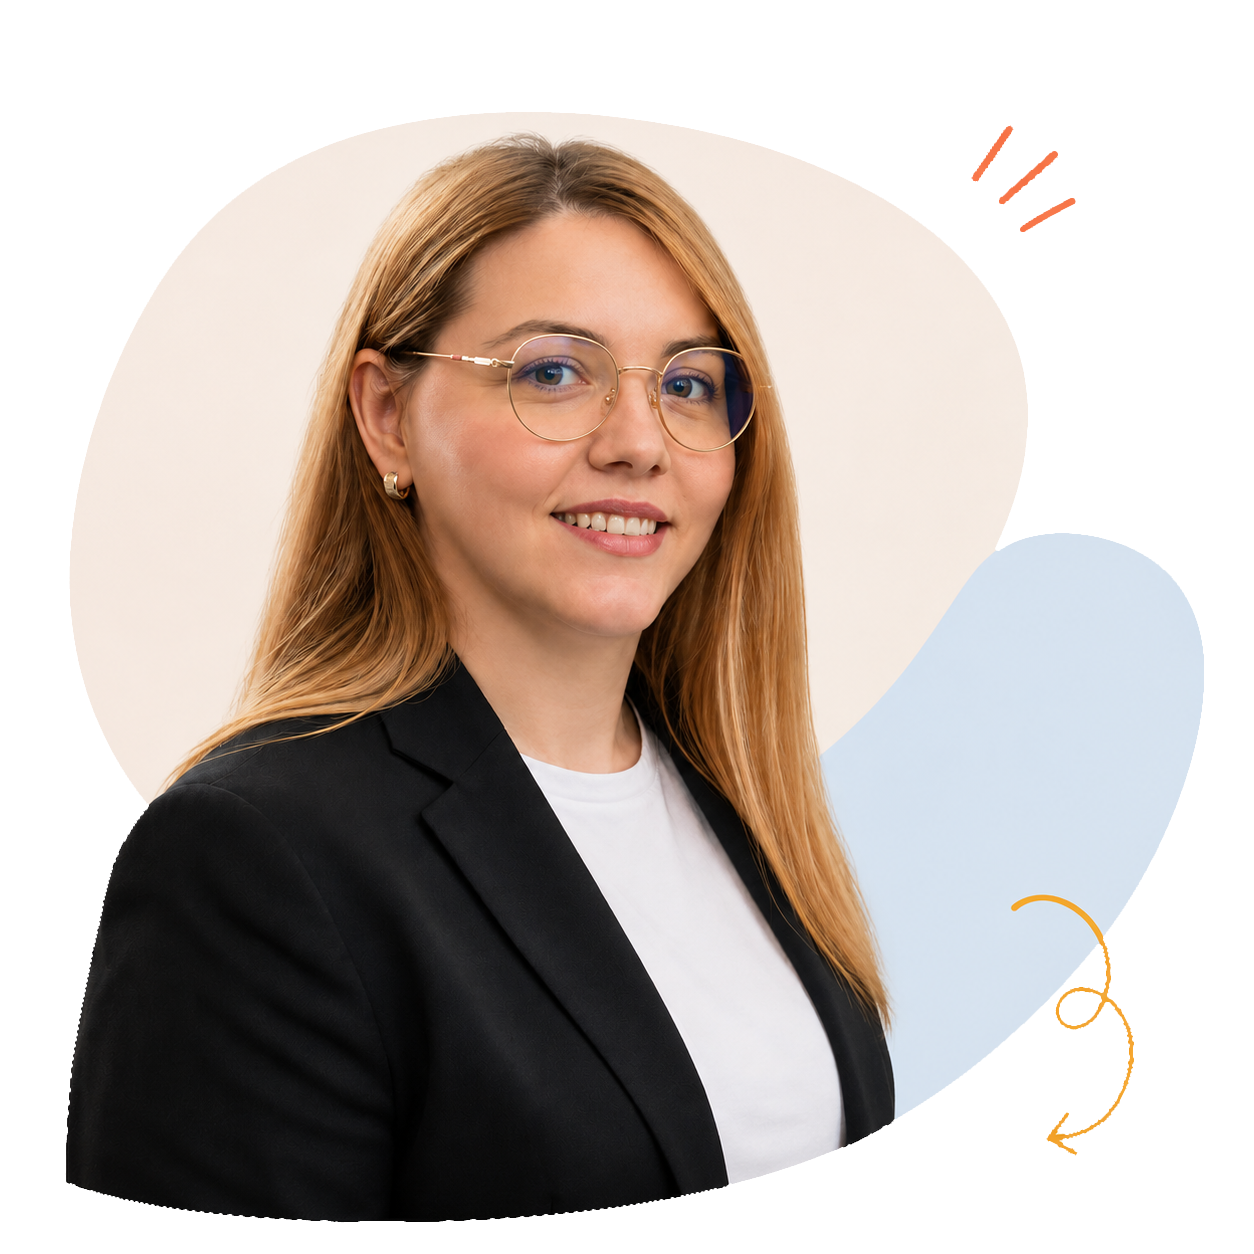
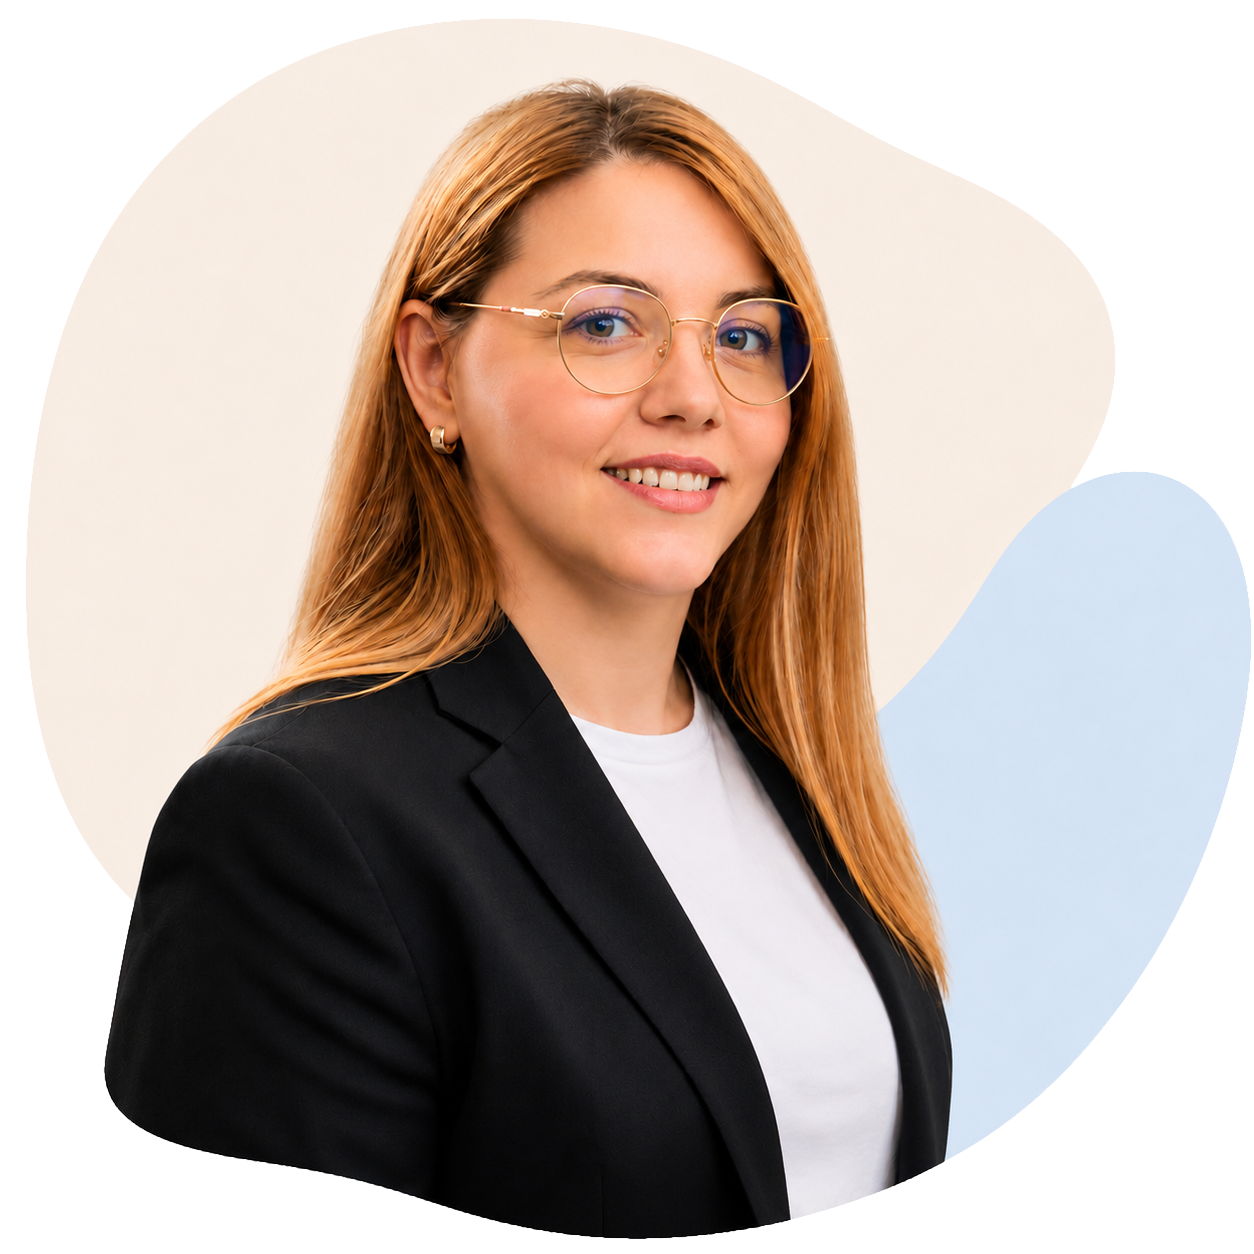
Update hero image and mobile form focus

diff --git a/script.js b/script.js
@@ -43,6 +43,29 @@ const scrollToElement = (target, focusTarget = null) => {
   }
 };
 
+const scrollToKeyboardSafeField = (field) => {
+  const viewport = window.visualViewport;
+  const viewportHeight = viewport?.height || window.innerHeight;
+  const viewportOffset = viewport?.offsetTop || 0;
+  const fieldTop = field.getBoundingClientRect().top + window.scrollY;
+  const targetTop = fieldTop - viewportOffset - viewportHeight * 0.46;
+
+  window.scrollTo({ top: Math.max(0, targetTop), behavior: "smooth" });
+};
+
+const focusFieldForKeyboard = (field) => {
+  if (!field) return;
+
+  scrollToKeyboardSafeField(field);
+  window.setTimeout(() => {
+    field.focus({ preventScroll: true });
+  }, 260);
+
+  window.setTimeout(() => {
+    scrollToKeyboardSafeField(field);
+  }, 620);
+};
+
 internalSectionLinks.forEach((link) => {
   link.addEventListener("click", (event) => {
     const hash = link.getAttribute("href");
@@ -69,7 +92,12 @@ const focusContactForm = (topic = "") => {
     topicSelect.dispatchEvent(new Event("change", { bubbles: true }));
   }
 
-  scrollToElement(nameInput || contactForm, nameInput);
+  if (nameInput) {
+    focusFieldForKeyboard(nameInput);
+    return;
+  }
+
+  scrollToElement(contactForm);
 };
 
 focusMessageLinks.forEach((link) => {

diff --git a/index.html b/index.html
@@ -2,7 +2,7 @@
 <html lang="en">
   <head>
     <meta charset="UTF-8" />
-    <meta name="viewport" content="width=device-width, initial-scale=1.0" />
+    <meta name="viewport" content="width=device-width, initial-scale=1.0, interactive-widget=overlays-content" />
     <meta
       name="description"
       content="Ivana Kostic, MD - gynecologist, researcher, and lifelong learner connecting around women's health, Vienna 2026, mentorship, clinical exchange, and research collaboration."

diff --git a/styles.css b/styles.css
@@ -204,7 +204,7 @@ main section[id],
   position: relative;
   display: grid;
   grid-template-columns: minmax(0, 1.04fr) minmax(360px, 0.9fr);
-  gap: clamp(26px, 3.8vw, 56px);
+  gap: clamp(44px, 5.6vw, 86px);
   align-items: center;
   min-height: 560px;
   padding-top: clamp(26px, 3.6vw, 46px);